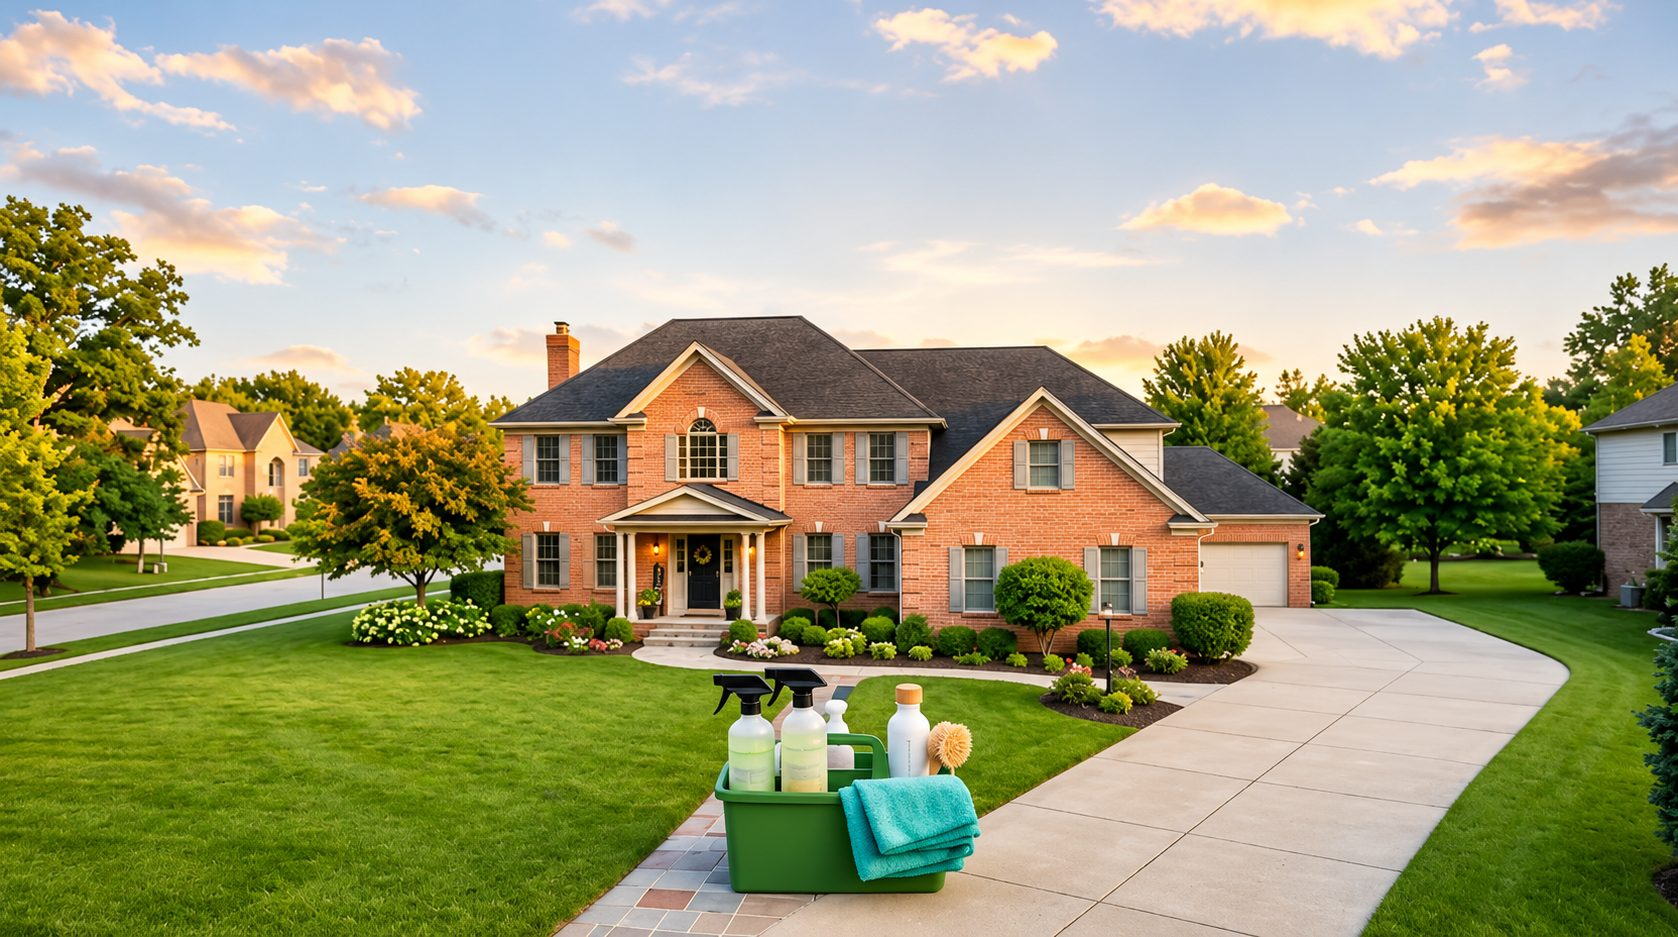
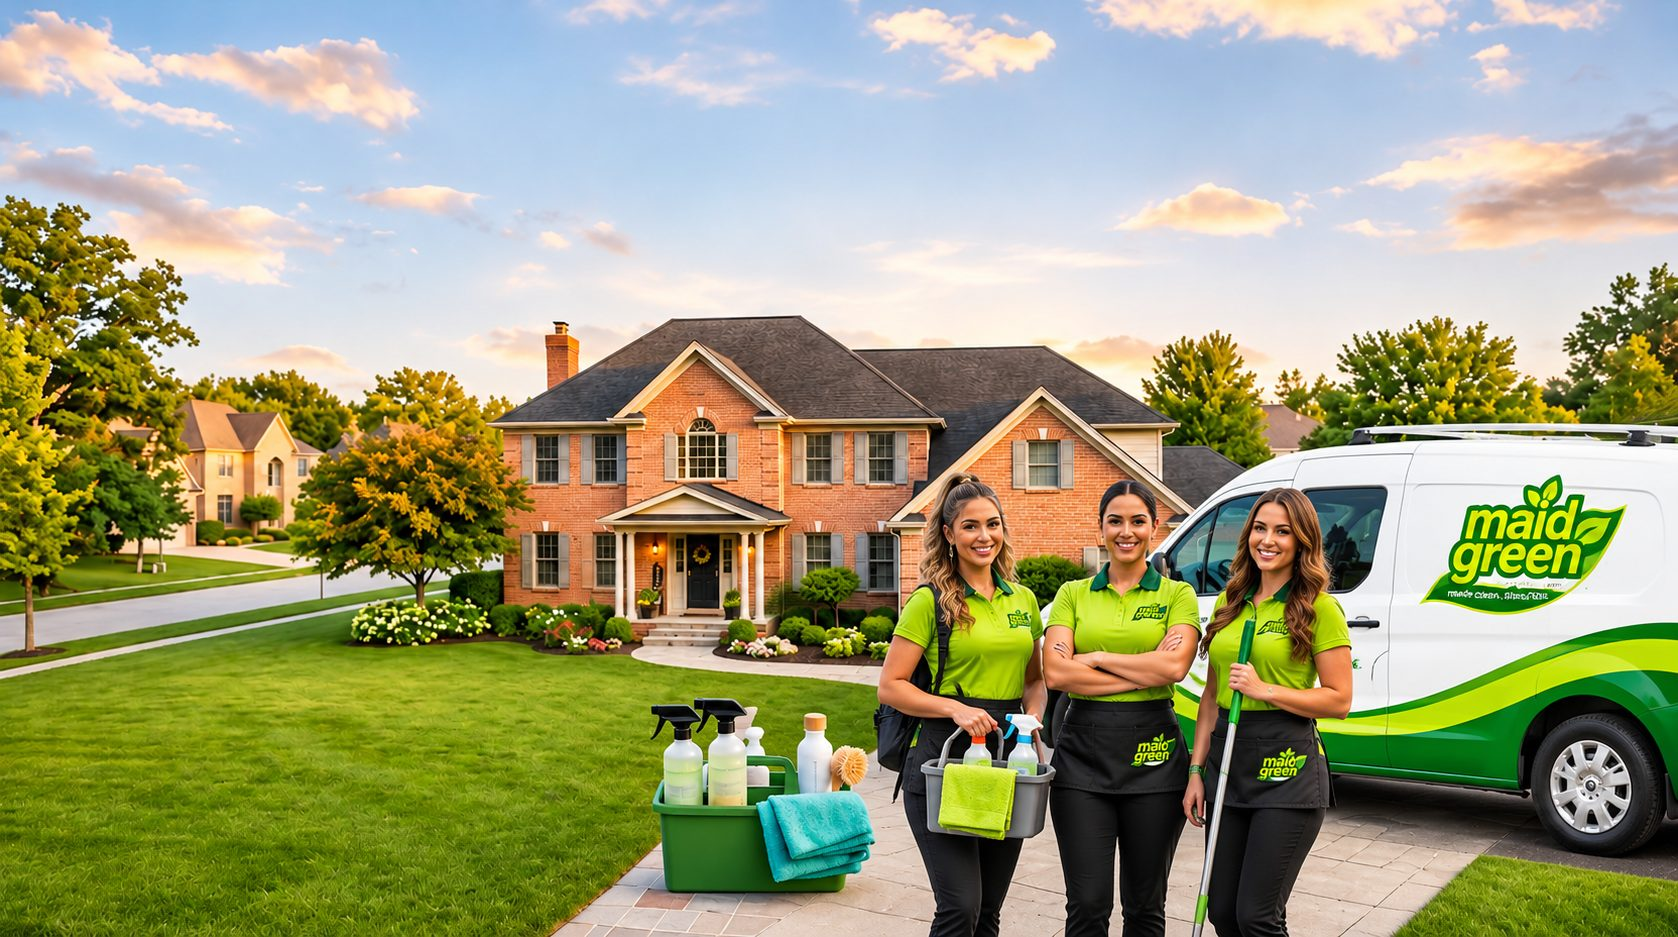
Hero: home photo with three cleaners and van
Claude-Session: https://claude.ai/code/session_017Li8CJi9xLmYeR52aEe7Pb

diff --git a/index.html b/index.html
@@ -88,7 +88,7 @@ a.u{font-weight:700;color:#fff;white-space:nowrap}
 .hero{background:var(--forest)}
 .hero-g{display:grid;grid-template-columns:1fr 1.08fr;min-height:min(calc(100vh - 144px),780px)}
 .hero-pic{position:relative;overflow:hidden;min-height:560px;order:2}
-.hp-img{position:absolute;inset:0;width:100%;height:100%;object-fit:cover;object-position:52% 62%;animation:kb 18s ease-out both}
+.hp-img{position:absolute;inset:0;width:100%;height:100%;object-fit:cover;object-position:64% 70%;animation:kb 18s ease-out both}
 @keyframes kb{from{transform:scale(1.1)}to{transform:scale(1)}}
 .hero-pic::after{content:"";position:absolute;inset:0;background:linear-gradient(270deg,transparent 75%,rgba(16,41,27,.35));pointer-events:none}
 .hp-g{position:absolute;right:28px;top:28px;z-index:2;display:flex;align-items:center;gap:12px;background:#fff;padding:12px 18px;border-radius:16px;box-shadow:var(--sh);text-decoration:none}
@@ -545,7 +545,7 @@ a.u{font-weight:700;color:#fff;white-space:nowrap}
 <section class="hero" aria-labelledby="hero-h">
   <div class="hero-g">
     <div class="hero-pic">
-      <picture><source srcset="assets/hero-home.webp" type="image/webp"><img class="hp-img" src="assets/hero-home.jpg" alt="Brick family home at sunset with a caddy of eco-friendly cleaning supplies on the walkway" width="1678" height="937" fetchpriority="high"></picture>
+      <picture><source srcset="assets/hero-home.webp" type="image/webp"><img class="hp-img" src="assets/hero-home.jpg" alt="Three smiling Maid Green cleaners with supplies outside a brick home, next to the Maid Green van" width="1678" height="937" fetchpriority="high"></picture>
       <a class="hp-g" href="https://maps.app.goo.gl/dz457c9LgQ96wKic7" target="_blank" rel="noopener"><svg class="g" viewBox="0 0 48 48" aria-hidden="true"><path fill="#FFC107" d="M43.6 20.5H42V20H24v8h11.3C33.7 32.7 29.2 36 24 36c-6.6 0-12-5.4-12-12s5.4-12 12-12c3.1 0 5.8 1.2 7.9 3.1l5.7-5.7C34 6.1 29.3 4 24 4 12.9 4 4 12.9 4 24s8.9 20 20 20 20-8.9 20-20c0-1.3-.1-2.4-.4-3.5z"/><path fill="#FF3D00" d="m6.3 14.7 6.6 4.8C14.7 15.1 19 12 24 12c3.1 0 5.8 1.2 7.9 3.1l5.7-5.7C34 6.1 29.3 4 24 4 16.3 4 9.7 8.3 6.3 14.7z"/><path fill="#4CAF50" d="M24 44c5.2 0 9.9-2 13.4-5.2l-6.2-5.2A11.9 11.9 0 0 1 24 36c-5.2 0-9.6-3.3-11.3-8l-6.5 5C9.5 39.6 16.2 44 24 44z"/><path fill="#1976D2" d="M43.6 20.5H42V20H24v8h11.3a12 12 0 0 1-4.1 5.6l6.2 5.2C37 39.2 44 34 44 24c0-1.3-.1-2.4-.4-3.5z"/></svg><span><b>Google reviews</b><span class="stars" aria-label="5 out of 5 stars"><svg aria-hidden="true"><use href="#i-star"/></svg><svg aria-hidden="true"><use href="#i-star"/></svg><svg aria-hidden="true"><use href="#i-star"/></svg><svg aria-hidden="true"><use href="#i-star"/></svg><svg aria-hidden="true"><use href="#i-star"/></svg></span></span></a>
     </div>
     <div class="hero-panel">
